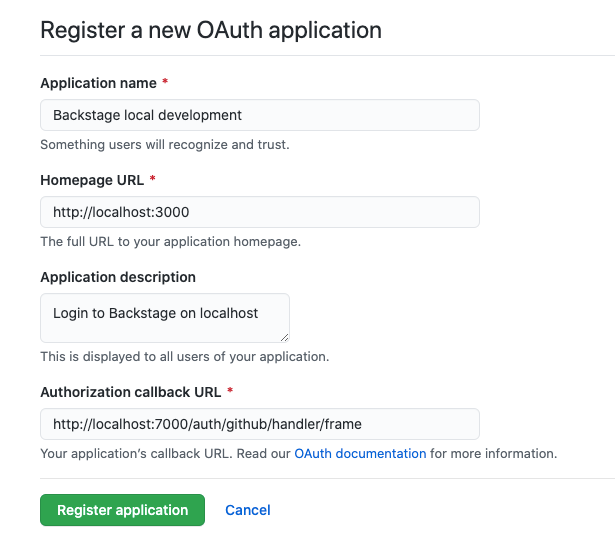
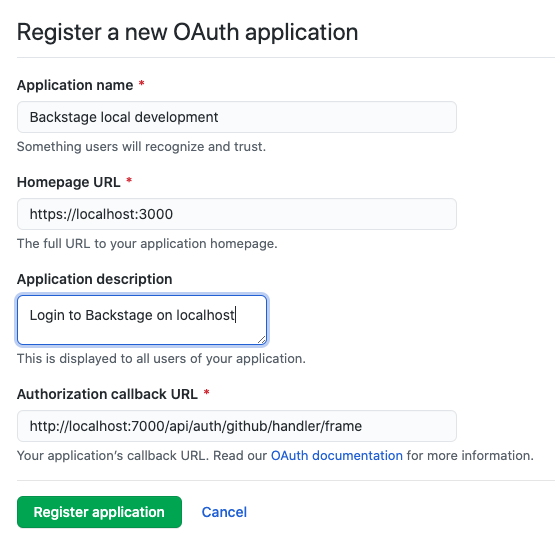
Add api to redirect URL in github post

diff --git a/content/blog/github-auth-backstage/index.md b/content/blog/github-auth-backstage/index.md
@@ -29,7 +29,7 @@ Enter the following values:
   <dt>Application description</dt>
   <dd class="typography-mono">Login to Backstage on localhost</dd>
   <dt>Authorization callback URL</dt>
-  <dd class="typography-mono">http://localhost:7000/auth/github/handler/frame</dd>
+  <dd class="typography-mono">http://localhost:7000/api/auth/github/handler/frame</dd>
 </dl>
 
 Your form should now look something like this:
